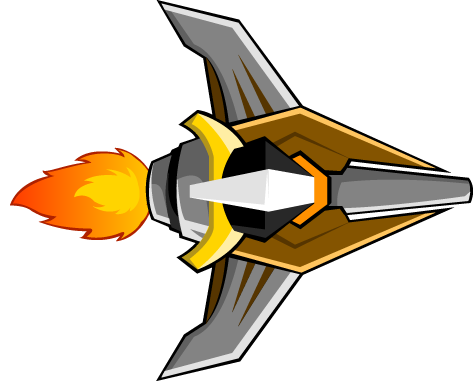
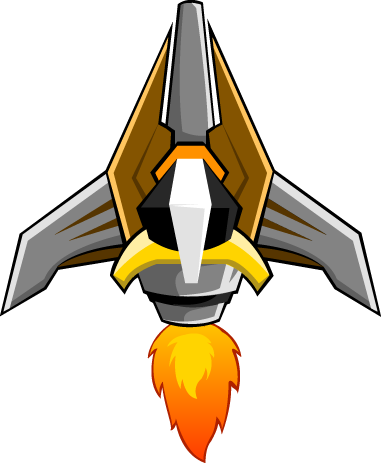
refactor sprite sizes / changed direction of playerShip

diff --git a/js/game.js b/js/game.js
@@ -14,20 +14,20 @@ gameScene.create = function() {
   bg.setOrigin(0, 1);
   
   //PLAYER SPRITE
-  this.player = this.add.sprite(1847/2, 4819, 'player');
-  this.player.setScale(0.7);
+  this.player = this.add.sprite(1570/2, 4900, 'player');
+  this.player.setScale(0.4);
 
   //ALIEN SPRITES
-  this.alien1 = this.add.sprite(1130, 4700, 'alien1');
-  this.alien1.setScale(0.8);
-  this.alien2 = this.add.sprite(540, 4700, 'alien2');
-  this.alien2.setScale(0.8);
+  this.alien1 = this.add.sprite(1130, 100, 'alien1');
+  this.alien1.setScale(0.5);
+  this.alien2 = this.add.sprite(1540/2, 4400, 'alien2');
+  this.alien2.setScale(0.5);
   
   //ASTEROID SPRITES
   this.asteroid1 = this.add.sprite(350, 3140, 'asteroid1');
-  this.asteroid1.setScale(0.7);
+  this.asteroid1.setScale(0.3);
   this.asteroid2 = this.add.sprite(1350, 2300, 'asteroid2');
-  this.asteroid2.setScale(0.7);
+  this.asteroid2.setScale(0.3);
 
   // CAMERA SETTINGS
   this.cameras.main.startFollow(this.player);
@@ -73,8 +73,10 @@ gameScene.update = function(time, delta) {
 
 let config = {
   type: Phaser.AUTO,
-  width: 1570,
-  height: 769,
+  //width: 1570,
+  //height: 769,
+  width: 1847,
+  height: 5119,
   scene: gameScene
 };
 
